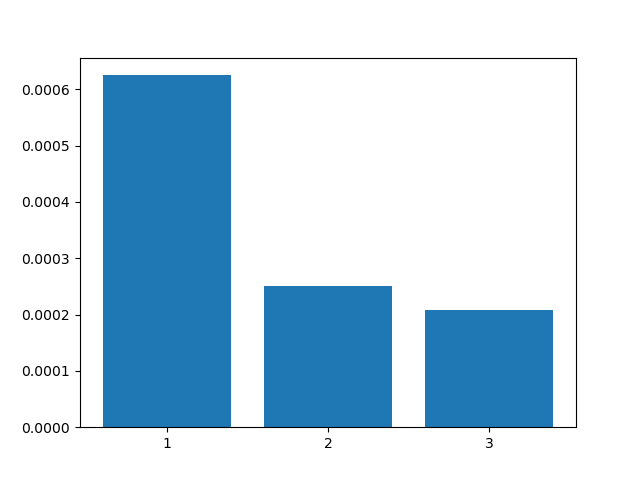
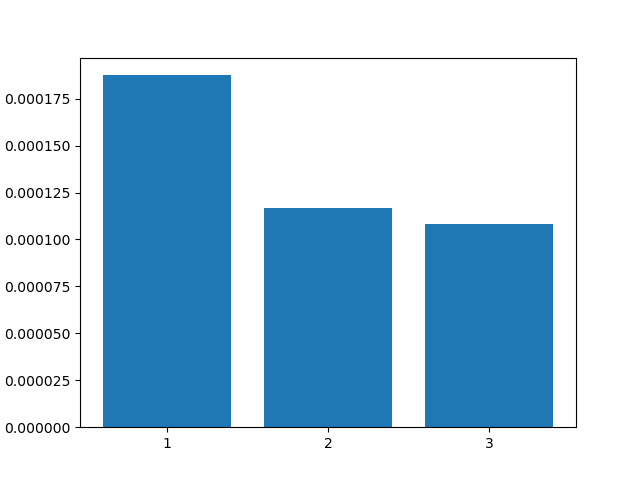
ee

diff --git a/part2.py b/part2.py
@@ -38,7 +38,7 @@ Fill in the add_pipeline, eval_throughput, and generate_plot functions below.
 # Number of times to run each pipeline in the following results.
 # You may modify this if any of your tests are running particularly slow
 # or fast (though it should be at least 10).
-NUM_RUNS = 2
+NUM_RUNS = 10
 class ThroughputHelper:
     def __init__(self):
         # Initialize the object.
@@ -365,32 +365,28 @@ def load_input(filename):
     data_pd = pd.read_csv(filename)
     data_pd_clean =  data_pd[(data_pd["Code"] != "OWID_WRL") & (data_pd["Code"].notna())]
 
-    #ount_per_code = data_pd_clearn.groupby(['Entity']).size().reset_index(name='Count')# remove countries with only one year
+    #data_pd_clean['partition_count'] = data_pd_clean.groupby(['Entity'])['Entity'].transform('count')
 
-    data_pd_clean['partition_count'] = data_pd_clean.groupby(['Entity'])['Entity'].transform('count')
-
-
-    final_daa = data_pd_clean[data_pd_clean['partition_count'] > 1]
-    final_daa = final_daa.drop(columns=['partition_count'])
-    return final_daa
+    #final_daa = data_pd_clean[data_pd_clean['partition_count'] > 1]
+    #final_daa = final_daa.drop(columns=['partition_count'])
+    return data_pd_clean
 
     # Return a dataframe containing the population data
     # **Clean the data here**
 
 def population_pipeline(df):
 
-    print(df.columns)
     groupd_df = df.groupby('Entity').agg(
         Year_Min = ('Year', 'min'),
         Year_Max = ('Year', 'max'),
-        Population_sum = ('Population (historical)', 'min'),
+        Population_sum = ('Population (historical)', 'sum'),
     )
 
-    groupd_df['changge_rate'] =  (groupd_df['Year_Max']   - groupd_df['Year_Min']) / groupd_df['Population_sum']
+    groupd_df['changge_rate'] =  (groupd_df['Year_Max']  - groupd_df['Year_Min']) / groupd_df['Population_sum']
 
     rate = groupd_df['changge_rate']
 
-    return [rate.min(),rate.median(),rate.max(),rate.mean(),rate.std()] 
+    return [round(rate.min(),4), round(rate.median(),4), round(rate.max(),4), round(rate.mean(),4),round(rate.std(),4)] 
     # Input: the dataframe from load_input()
     # Return a list of min, median, max, mean, and standard deviation
 
@@ -594,54 +590,47 @@ Create a new pipeline:
 """
 
 def for_loop_pipeline(df):
-
-    # data_pd_clean =  data_pd[(data_pd["Code"] != "OWID_WRL") & (data_pd["Code"].notna())]
-
+   
     country = df['Entity'].tolist()
-
     code = df['Code'].tolist()
-
     year = df['Year'].tolist()
-
     population = df['Population (historical)'].tolist()
 
+    country_fil = []
+    code_fil = []
+    year_fil = []
+    pop_fil = []
     rate = []
 
-    
-    for i in range(len(country)): # filter out data
-        value =code[i]
+    for i in range(len(country)):
+        if code[i] != 'OWID_WRL' and code[i] is not None:
+            country_fil.append(country[i])  
+            code_fil.append(code[i])        
+            year_fil.append(year[i])        
+            pop_fil.append(population[i])   
 
-        if value != 'OWID_WRL' and  value != None:
-            code.append(value)
-            country.append(country[i])
-            year.append(year[i])
-            population.append(population[i])
-
-
-    for i in set(country):
-
-
-        country_min = float('inf') 
-        country_max = float('-inf') 
-        country_population = 0
+   
+    for i in set(country_fil):
+        country_min = float('inf')
+        country_max = float('-inf')
+        total_population = 0
 
 
-        for j in range(len(country)):
-            if country[j] == i:
+        for j in range(len(country_fil)):
+            if country_fil[j] == i:
+                if year_fil[j] < country_min:
+                    country_min = year_fil[j]
+                if year_fil[j] > country_max:
+                    country_max = year_fil[j]
+                total_population += pop_fil[j]
 
-                if year[j] < country_min:
-                    country_min = year[j]
-
-                if year[j] > country_max:
-                    country_max = year[j]
-
-                country_population += population[j]
-        rate.append((country_max - country_min) / country_population)
-
+        rate.append((country_max - country_min) / total_population)
 
     # summary parts 
 
-    min = 0 
+    rate.sort()
+
+    min = float('inf')
     for i in rate:
         if i < min:
             min = i
@@ -658,10 +647,7 @@ def for_loop_pipeline(df):
         std += (i - mean) ** 2
     std = (std / len(rate)) ** 0.5
 
-    return [min, median, max, mean, std]
- 
-    
-    
+    return [round(min,4),round(median,4), round(max,4), round(mean,4), round(std,4)]
     
     # Input: the dataframe from load_input()
     # Return a list of min, median, max, mean, and standard deviation
@@ -684,16 +670,17 @@ As before, write 4 pipelines based on the datasets from Q7.
 """
 
 def for_loop_small():
-    raise NotImplementedError
+    stats = for_loop_pipeline(load_input_small())
 
 def for_loop_medium():
-    raise NotImplementedError
+    stats = for_loop_pipeline(load_input_medium())
+    
 
 def for_loop_large():
-    raise NotImplementedError
+    stats = for_loop_pipeline(load_input_large())
 
 def for_loop_latency():
-    raise NotImplementedError
+    stats = for_loop_pipeline(load_input_single_row())
 
 def q12():
     # Don't modify this part
@@ -718,13 +705,30 @@ def q13a():
     # Add all 6 pipelines for a throughput comparison
     # Generate plot in ouptut/q13a.png
     # Return list of 6 throughputs
-    raise NotImplementedError
+    b = ThroughputHelper()
+    b.add_pipeline("baseline_small", len(POPULATION_SMALL), baseline_small)
+    b.add_pipeline("baseline_medium", len(POPULATION_MEDIUM), baseline_medium)
+    b.add_pipeline("baseline_large", len(POPULATION_LARGE), baseline_large)
+
+    b.add_pipeline("for_loop_small", len(POPULATION_SMALL), for_loop_small)
+    b.add_pipeline("for_loop_medium", len(POPULATION_MEDIUM), for_loop_medium)
+    b.add_pipeline("for_loop_large", len(POPULATION_LARGE), for_loop_large)
+
+    b.compare_throughput()
+    b.generate_plot("output/q13a.png")
+    return b.throughputs
+
 
 def q13b():
     # Add 2 pipelines for a latency comparison
     # Generate plot in ouptut/q13b.png
     # Return list of 2 latencies
-    raise NotImplementedError
+    a = LatencyHelper()
+    a.add_pipeline("baseline_latency", baseline_latency)
+    a.add_pipeline("for_loop_latency", for_loop_latency)
+    a.compare_latency()
+    a.generate_plot("output/q13b.png")
+    return a.latencies
 
 """
 14.
